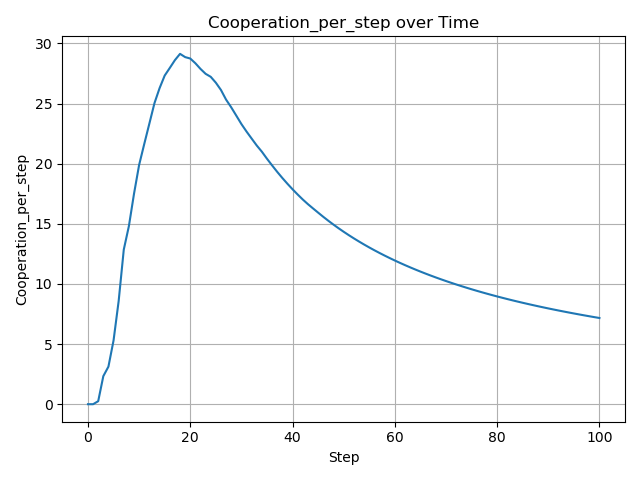
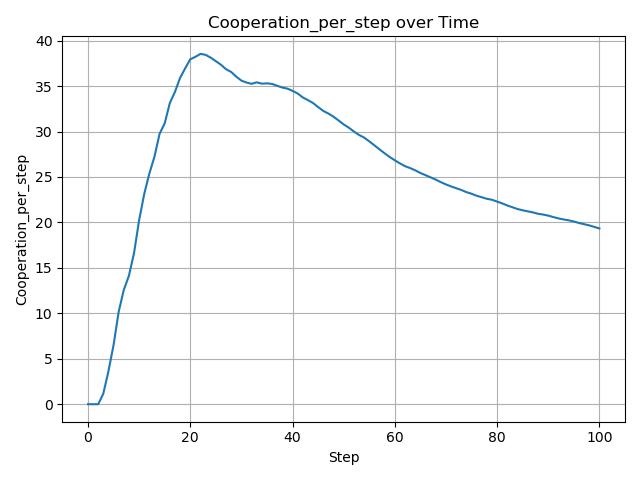
regenerating spice

diff --git a/scripts/model.py b/scripts/model.py
@@ -51,6 +51,7 @@ class DuneModel(ms.Model):
         self.current_step = 0
         self.alpha = alpha
         self.trade_percentage = trade_percentage
+        self.spice_threshold = 500
 
         self.trades_per_tribe = {tribe_id: 0 for tribe_id in range(n_tribes)}
         self.schedule = ms.time.RandomActivationByType(self)
@@ -128,14 +129,20 @@ class DuneModel(ms.Model):
     def record_cooperation(self):
         self.total_cooperation += 1 / 2
     
-    def regenerate_spice(self, depleted_spice):
-        self.remove_agent(depleted_spice)
-        spice_dist = self.gen_spice_map(self.width, self.height, self.n_heaps, 1000)
+    def total_spice_in_system(self):
+        total_spice = 0
+        for agent in self.schedule.agents:
+            if isinstance(agent, Spice):
+                total_spice += agent.spice
+        return total_spice
+
+    def regenerate_spice(self, depleted_spice=None):
+        new_spice_dist = gen_spice_map(self.width, self.height, self.n_heaps, 1000)
         id = max(agent.unique_id for agent in self.schedule.agents) + 1
         for x in range(self.width):
             for y in range(self.height):
-                max_spice = 20
-                if self.grid.is_cell_empty((x, y)):
+                max_spice = new_spice_dist[x, y]
+                if max_spice > 0:
                     new_spice = Spice(id, (x, y), self, max_spice)
                     self.grid.place_agent(new_spice, (x, y))
                     self.schedule.add(new_spice)
@@ -144,6 +151,9 @@ class DuneModel(ms.Model):
     def step(self):
         self.schedule.step()
         self.datacollector.collect(self)
+        total_spice = self.total_spice_in_system()
+        if total_spice < self.spice_threshold:
+            self.regenerate_spice()
         if self.verbose:
             print([self.schedule.time, self.schedule.get_type_count(Nomad)])
         self.current_step += 1

diff --git a/scripts/agents.py b/scripts/agents.py
@@ -201,9 +201,9 @@ class Spice(ms.Agent):
 
     def step(self):
         if self.spice == 0:
-            self.model.regenerate_spice(self)
+            self.model.remove_agent(self)
         elif self.spice > 20:
-            self.spice += 1 * np.random.binomial(1, .99, 1)[0]
+            self.spice += 1 * np.random.binomial(1, .5, 1)[0]
 
 
 class Water(ms.Agent):
